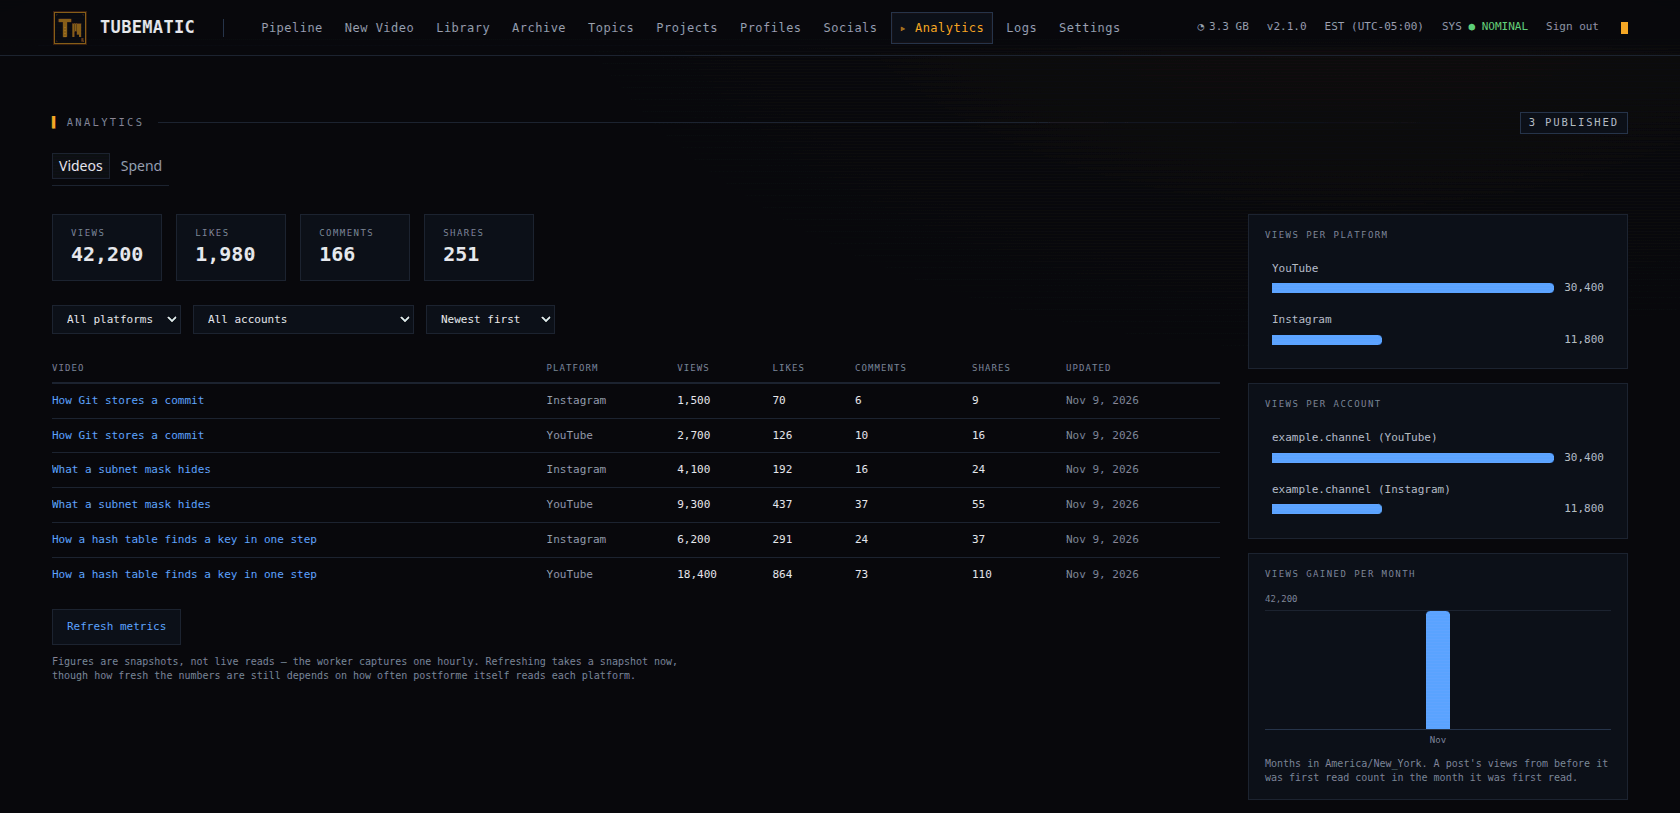
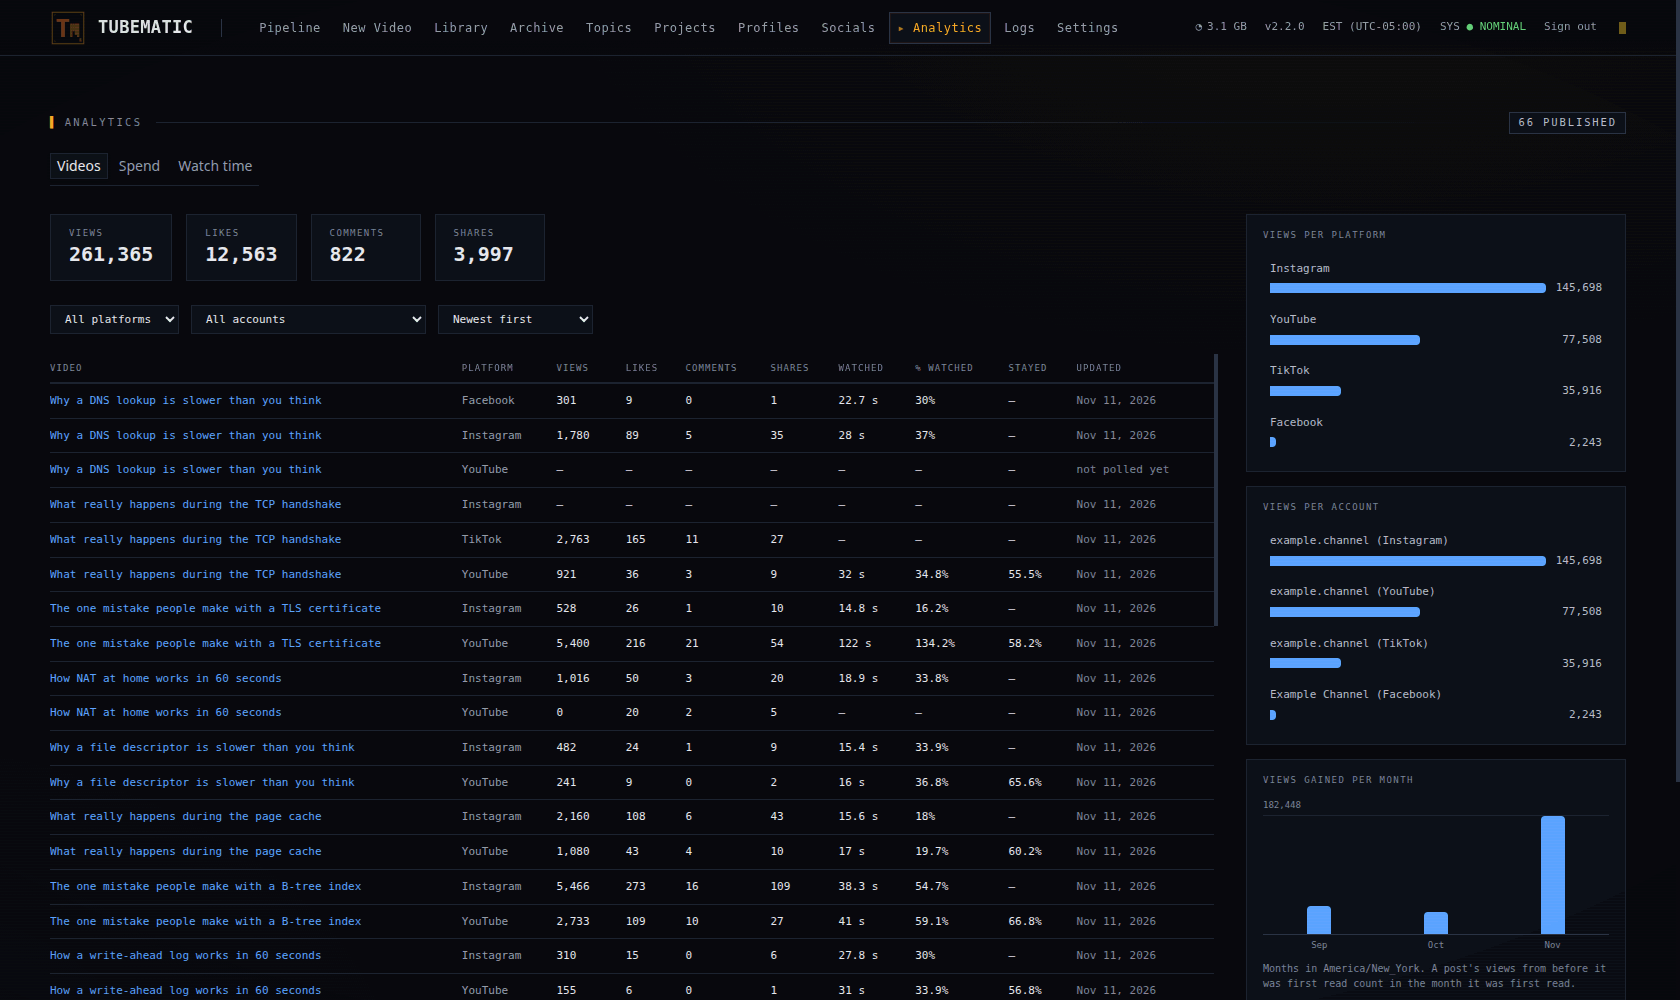
Docs: re-take the Analytics Videos and Spend images and add a Watch time image (TMDEV-212)
Captured in a Kasm session with made-up data at 1680px, by the docs screenshot recipe.

diff --git a/docs/user-guide/06-publishing.md b/docs/user-guide/06-publishing.md
@@ -152,7 +152,7 @@ the Publish dialog opens. Pick the accounts and privacy again.
 Tubematic reads each published post's figures once an hour. **Refresh metrics** on the
 **Analytics** page reads them now.
 
-![The Videos tab of Analytics: totals for views, likes, comments and shares, a row per post, and bar charts by platform, by account and by month](../images/analytics-videos.png)
+![The Videos tab of Analytics: totals for views, likes, comments and shares, a row per post with its counts and watch figures, and bar charts by platform, by account and by month](../images/analytics-videos.png)
 
 A figure the platform did not report shows as a dash. Figures are kept after a video's files are
 deleted, so an archived video still shows its numbers.
@@ -189,6 +189,8 @@ postforme states that Instagram can take up to 48 hours to report some figures o
 ### Comparing groups of videos
 
 The **Watch time** tab groups one account's posts and shows the three figures for each group.
+
+![The Watch time tab for a YouTube account, grouped by visual style: a row per style with its number of videos and the three watch figures, and a TOO FEW tag on the two groups under 20 videos](../images/analytics-watch-time.png)
 
 1. Choose the account. The tab opens on the account with the most posts.
 2. Choose **Group by**: visual style, script profile, domain, script length, formula or opening.
